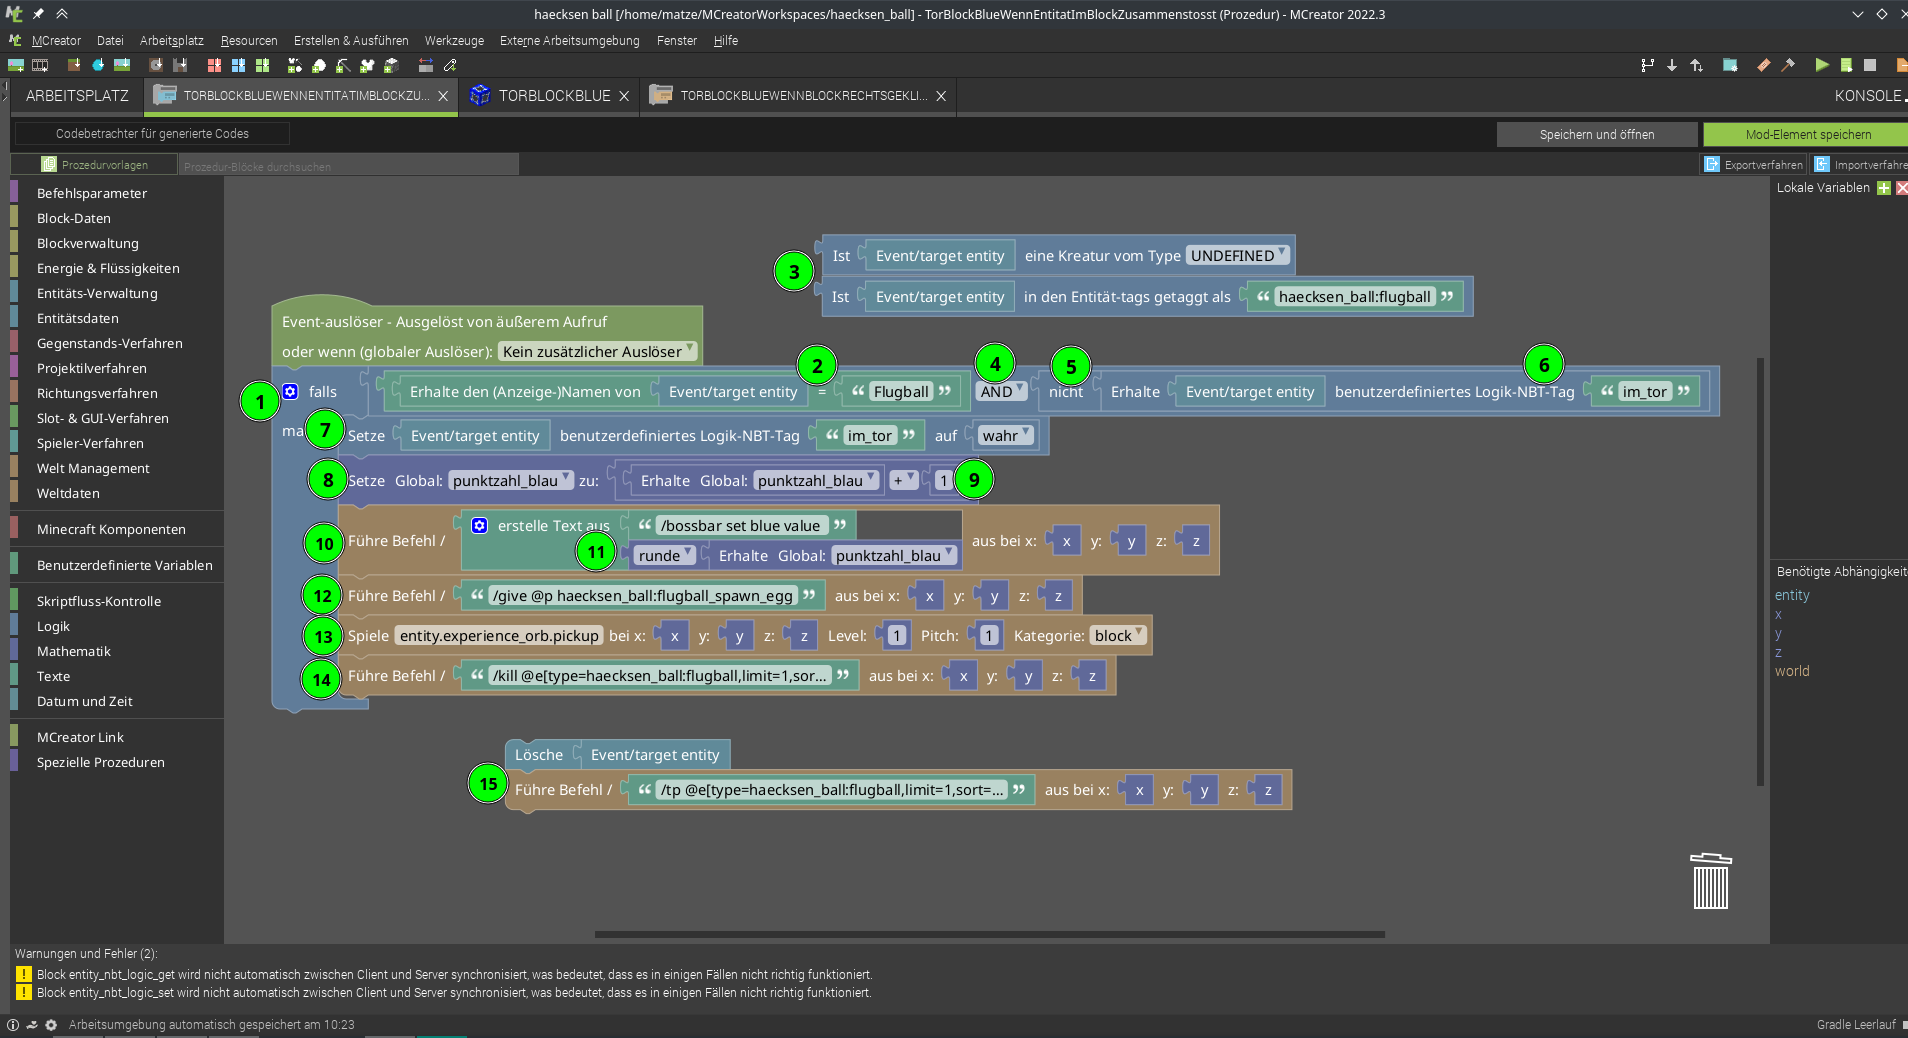
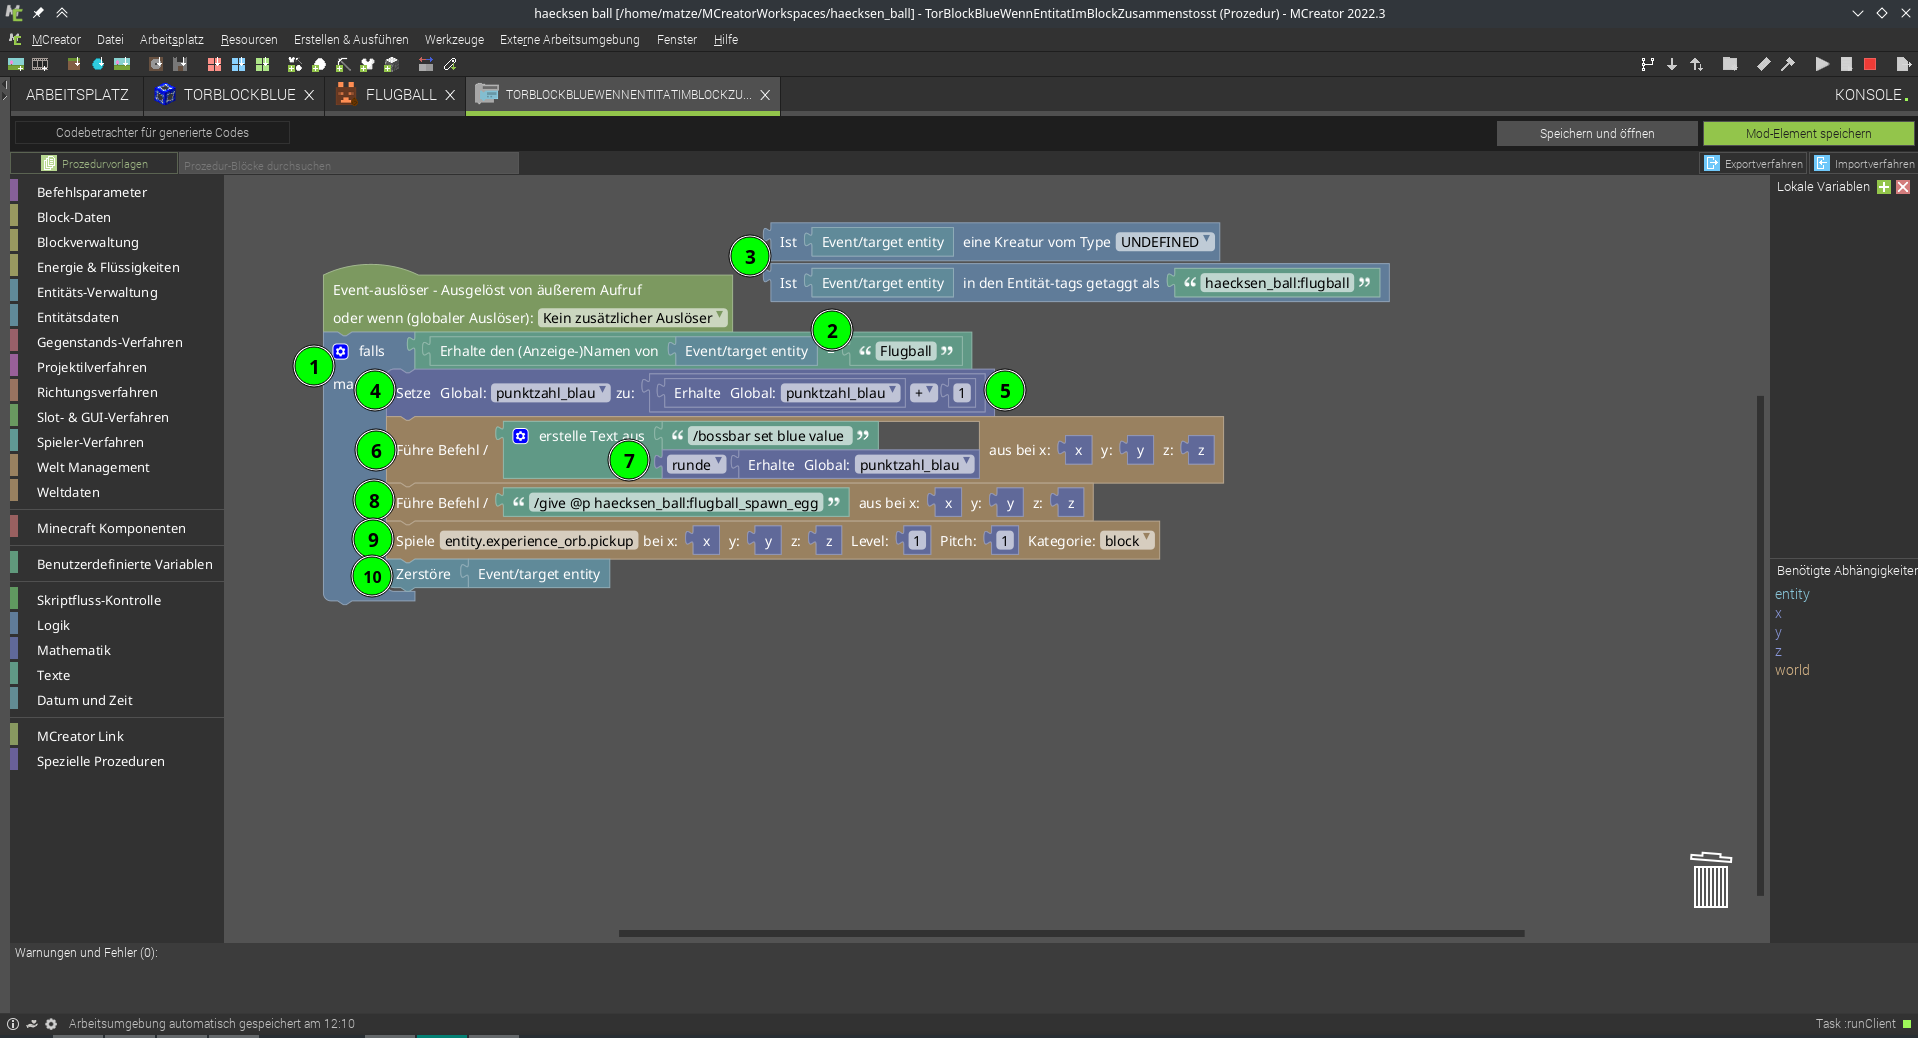
einfacherer Entität kollisions code

diff --git a/04-punkte-zaehlen/punkte-zaehlen.md b/04-punkte-zaehlen/punkte-zaehlen.md
@@ -19,26 +19,21 @@ Die Prozedur für den Zusammenstoß mit einem Entity ist länger und sieht so au
 ![code zusammenstoß entität](code-zusammenstoss-entitaet.png)
 1. Weil wir nur wollen, dass ein Punkt nur dann verteilt wird, wenn der Ball das Tor berührt checken wir bei ob es sich bei der Entität um einen Ball handelt
 2. dazu erhalten wir den Anzeige-Namen und prüfen ob der gleich *Flugball* (muss übereinstimmen, wie der Objektname bei [Bild und Ton von *Ball erstellen*](../02-ball-erstellen/ball-erstellen.md))
-3. die vom Hauptblock abgelösten Anweisungen werden nicht ausgeführt und dienen nur als Hinweis was ich probiert hab: bei der 3 wollt ich auf diese 2 weisen testen ob es sich um einen Ball handelt, was leider nicht geklappt hat.
-4. verknüpfen wir den Ball-check mit einem *AND*, dass noch eine weitere Bedinung zutreffen muss (machen wir dies nicht wird der ball nach dem löschen noch weitere male erkannt)
-5. verneinen wir den check
-6. ob die Entität den NBT-Tag *im_tor* schon hat.  
-Verneint, weil wir nur ein Punkt vergeben wollen wenn der Ball nicht schonmal in dem Tor erkannt wurde. (Alle möglichkeiten die ich probiert hab waren zu langsam um den Ball zu entfernen bevor er nochmal im Tor erkannt wird, kill: Entität existiert noch weiter bis rote Umfallanimation beendet, tp ins nichts: vergibt immernoch 2 Punkte)
-7. dass der Ball nicht doppelt erkannt wird müssen wir natürlich jetzt noch den NBT-Tag *im_tor* auf *wahr* setzen, sonst bringt unsere Abfrage (6) ja garnichts.
-8. Erhöht die Punktzahl von Blau:
-9.  - dazu holt es sich die aktuelle *punktzahl_blau* 
+3. die vom Hauptcodeblock abgelösten Anweisungen werden nicht ausgeführt und dienen nur als Hinweis was ich probiert hab: bei der (3) wollt ich auf diese 2 Wege testen ob es sich um einen Ball handelt, was leider nicht geklappt hat.
+4. Erhöht die Punktzahl von Blau:
+5.  - dazu holt es sich die aktuelle *punktzahl_blau* 
     - und fügt mit *+* 
     - die Zahl *1* hinzu 
     - und Speichert das ergebnis mit *Setze Global: punktzahl zu* wieder in der Punktezahl für blau ab.
-10. Wir führen den Minecraft Befehl für die Bossbar aus
-11. dazu kombinieren wir den text `/bossbar set blue value ` mit der *punktzahl_blau* und runden diese, weil es sich sonst um eine Kommazahl handelt. (zwar immer ,0 aber Minecraft kennt hier keine Kommazahl, desshalb machen wir die so weg)
-12. wir geben dem nächsten Spieler (`@p`) ein neues Spawn-Ei  
+6. Wir führen den Minecraft Befehl für die Bossbar aus
+7. dazu kombinieren wir den text `/bossbar set blue value ` mit der *punktzahl_blau* und runden diese, weil es sich sonst um eine Kommazahl handelt. (zwar immer ,0 aber Minecraft kennt hier keine Kommazahl, desshalb machen wir die so weg)
+8. wir geben dem nächsten Spieler (`@p`) ein neues Spawn-Ei  
   `/give @p haecksen_ball:flugball_spawn_egg`
-13. mit diesem Befehl können wir einen Ton abspielen lassen, wenn ein Tor geschossen wurde. Hier z.B. der gleiche Ton, wenn man XP aufsammelt: *entity.experience_orb.pickup*
-14. am Schluss wollen wir den Ball natürlich los werden:  
-    dazu führen wir den Minecraft Befehl `/kill @e[type=haecksen_ball:flugball,limit=1,sort=nearest]` aus.
-15. die anderen 2 Varianten werden hier nicht ausgeführt und sind wie bei (3) nur da um zu veranschaulichen welche andere Möglichkeiten ich probiert hab.
-16. Speichern nicht vergessen ;)
+9. mit diesem Befehl können wir einen Ton abspielen lassen, wenn ein Tor geschossen wurde. Hier z.B. der gleiche Ton, wenn man XP aufsammelt: *entity.experience_orb.pickup*
+10. am Schluss wollen wir den Ball natürlich los werden:  
+    - dazu am besten den Befehl *Zerstöre* verwenden
+    - Achtung: die Minecraft befehle `kill @e[...]`, `tp @e[...] ~ -500 ~` und MCreator `Lösche` gehen nicht aus verschiedenen Gründen.
+11. Speichern nicht vergessen ;)
 
 Jetzt kanns im Spiel getestet werden, und wenn ein Ball in einen blauen Torblock fliegt, dann sollte ein Ton kommen, die Punktzahl in der Bossbar erhöht werden, der Ball verschwinden und man bekommt ein neues Spawn-Ei.
 
